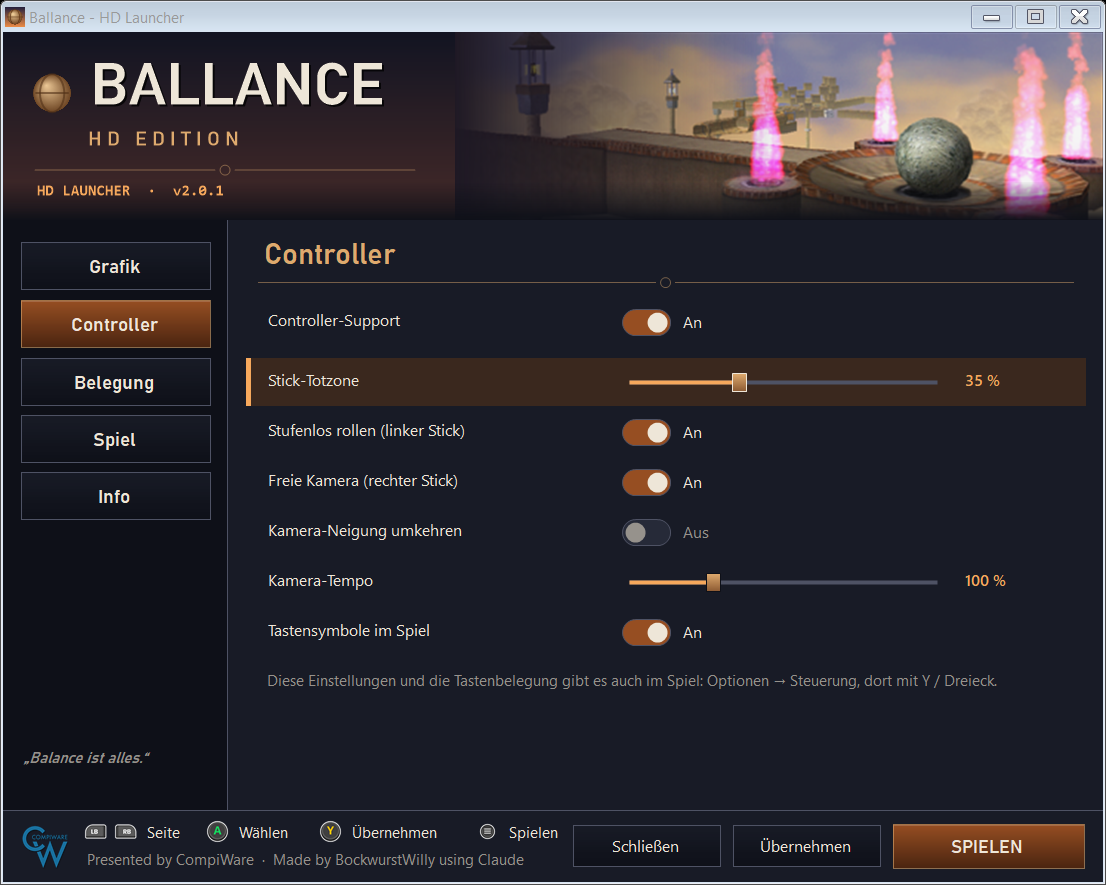
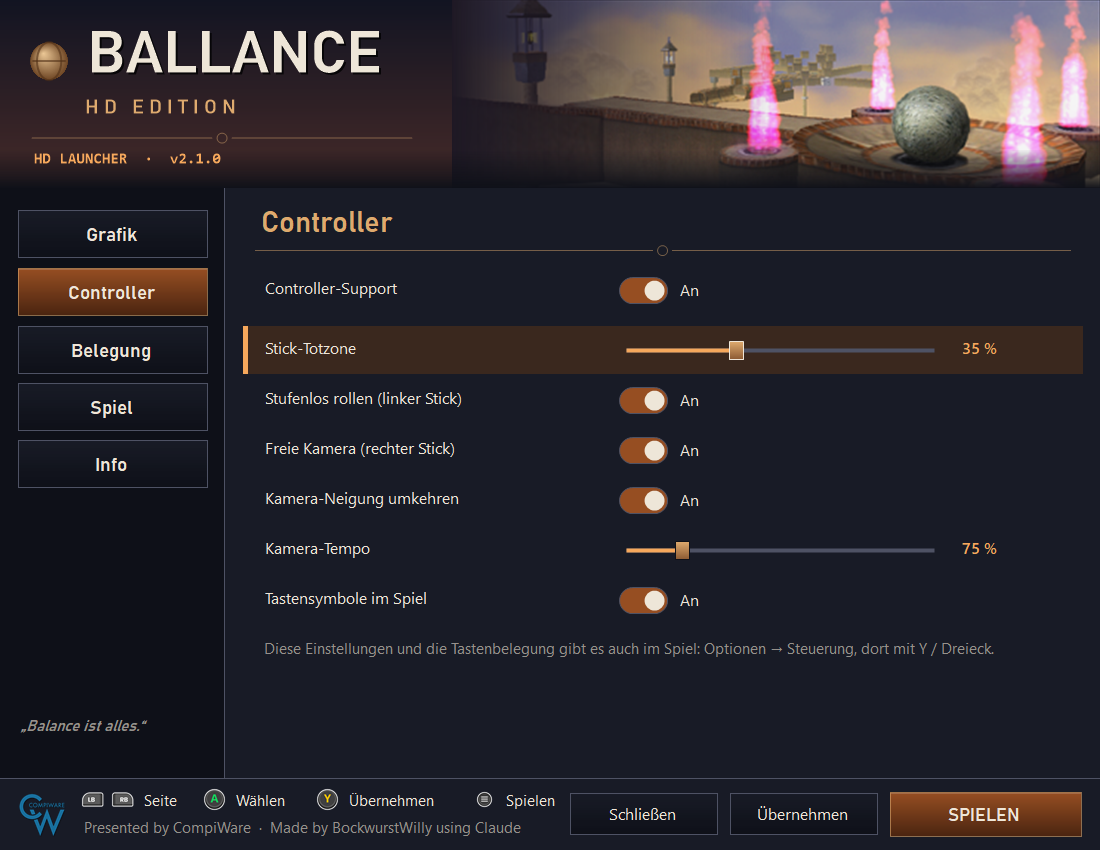
Launcher snapshot: window content only, without the Windows frame

diff --git a/src/launcher/LauncherForm.cs b/src/launcher/LauncherForm.cs
@@ -766,10 +766,14 @@ namespace BallanceHD
                 if (ring.Count > 1)
                     ActiveControl = ring[1];
                 Refresh();
+                // only the window's content, without the Windows title bar and border (screenshots for GitHub / the website)
                 using (var bmp = new Bitmap(Width, Height))
                 {
                     DrawToBitmap(bmp, new Rectangle(0, 0, Width, Height));
-                    bmp.Save(Path.Combine(folder, "launcher_" + names[i] + ".png"), System.Drawing.Imaging.ImageFormat.Png);
+                    var origin = PointToScreen(Point.Empty);
+                    var client = new Rectangle(origin.X - Left, origin.Y - Top, ClientSize.Width, ClientSize.Height);
+                    using (var content = bmp.Clone(client, bmp.PixelFormat))
+                        content.Save(Path.Combine(folder, "launcher_" + names[i] + ".png"), System.Drawing.Imaging.ImageFormat.Png);
                 }
             }
             Close();
